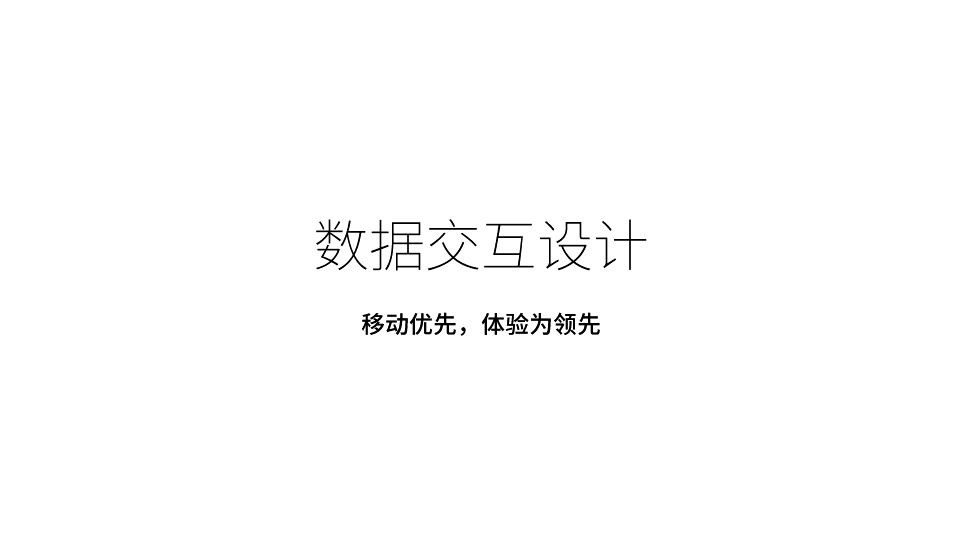
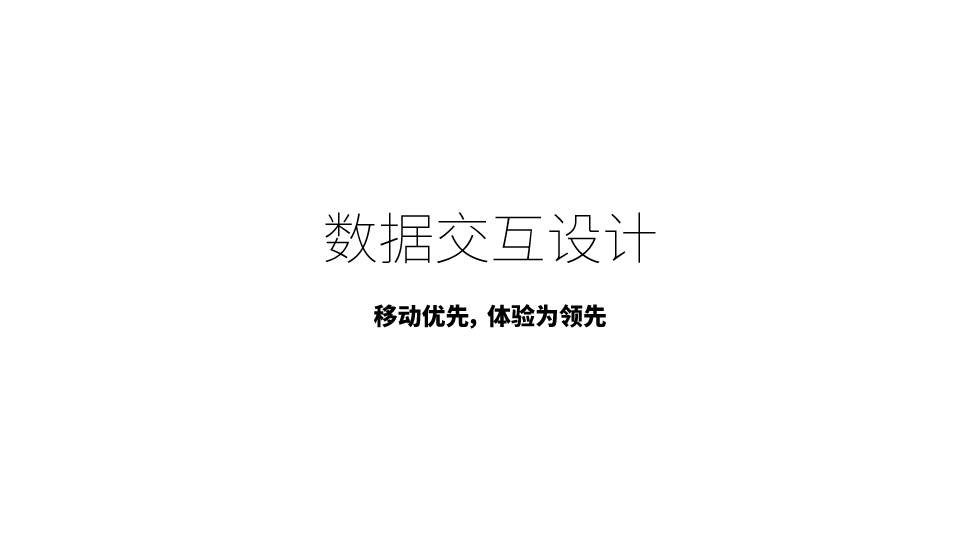
no message

Changed region(s): [[0.3125, 0.3852, 0.6875, 0.5037], [0.375, 0.563, 0.625, 0.6222]]

diff --git a/src/pages/home/Interaction.vue b/src/pages/home/Interaction.vue
@@ -51,7 +51,7 @@
     width: 50%;
     float: left;
     background-size: cover;
-    background-image: url("../../assets/index/it1.png");
+    background-image: url("../../assets/index/it1.jpg");
     padding: 0px;
     overflow: hidden;
     position: relative;

diff --git a/src/App.vue b/src/App.vue
@@ -44,6 +44,11 @@
     src: url('./font/SourceHanSansCN-Bold.otf');
 
   }
+  @font-face {
+    font-family: 'SourceHanSansCN-Heavy';
+    src: url('./font/SourceHanSansCN-Heavy.otf');
+
+  }
 
   ul, li, p {
     list-style: none;

diff --git a/src/pages/home/Experience.vue b/src/pages/home/Experience.vue
@@ -137,7 +137,7 @@
 
     a {
       color: #fff;
-      font-family: "SourceHanSansCN-Medium";
+      font-family: "SourceHanSansCN-Heavy";
       font-size: 30px;
       text-decoration: none;
     }

diff --git a/src/pages/home/InteractionCard.vue b/src/pages/home/InteractionCard.vue
@@ -96,7 +96,7 @@
 
   a {
     color: #fff;
-    font-family: "SourceHanSansCN-Medium";
+    font-family: "SourceHanSansCN-Heavy";
     font-size: 30px;
     text-decoration: none;
   }
